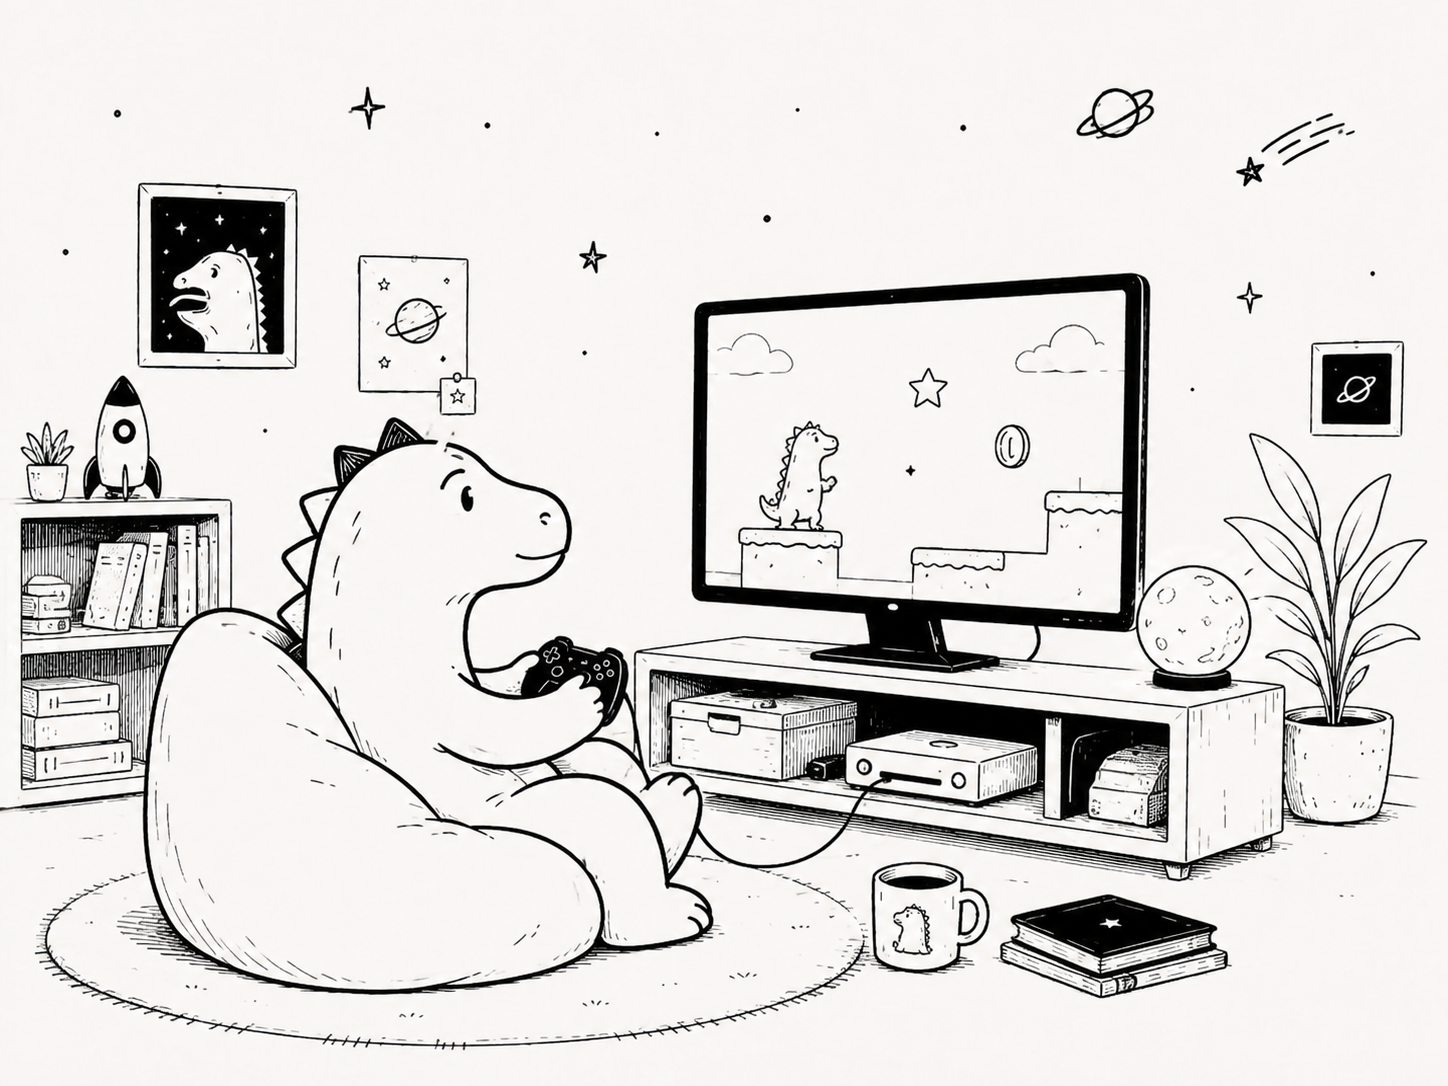
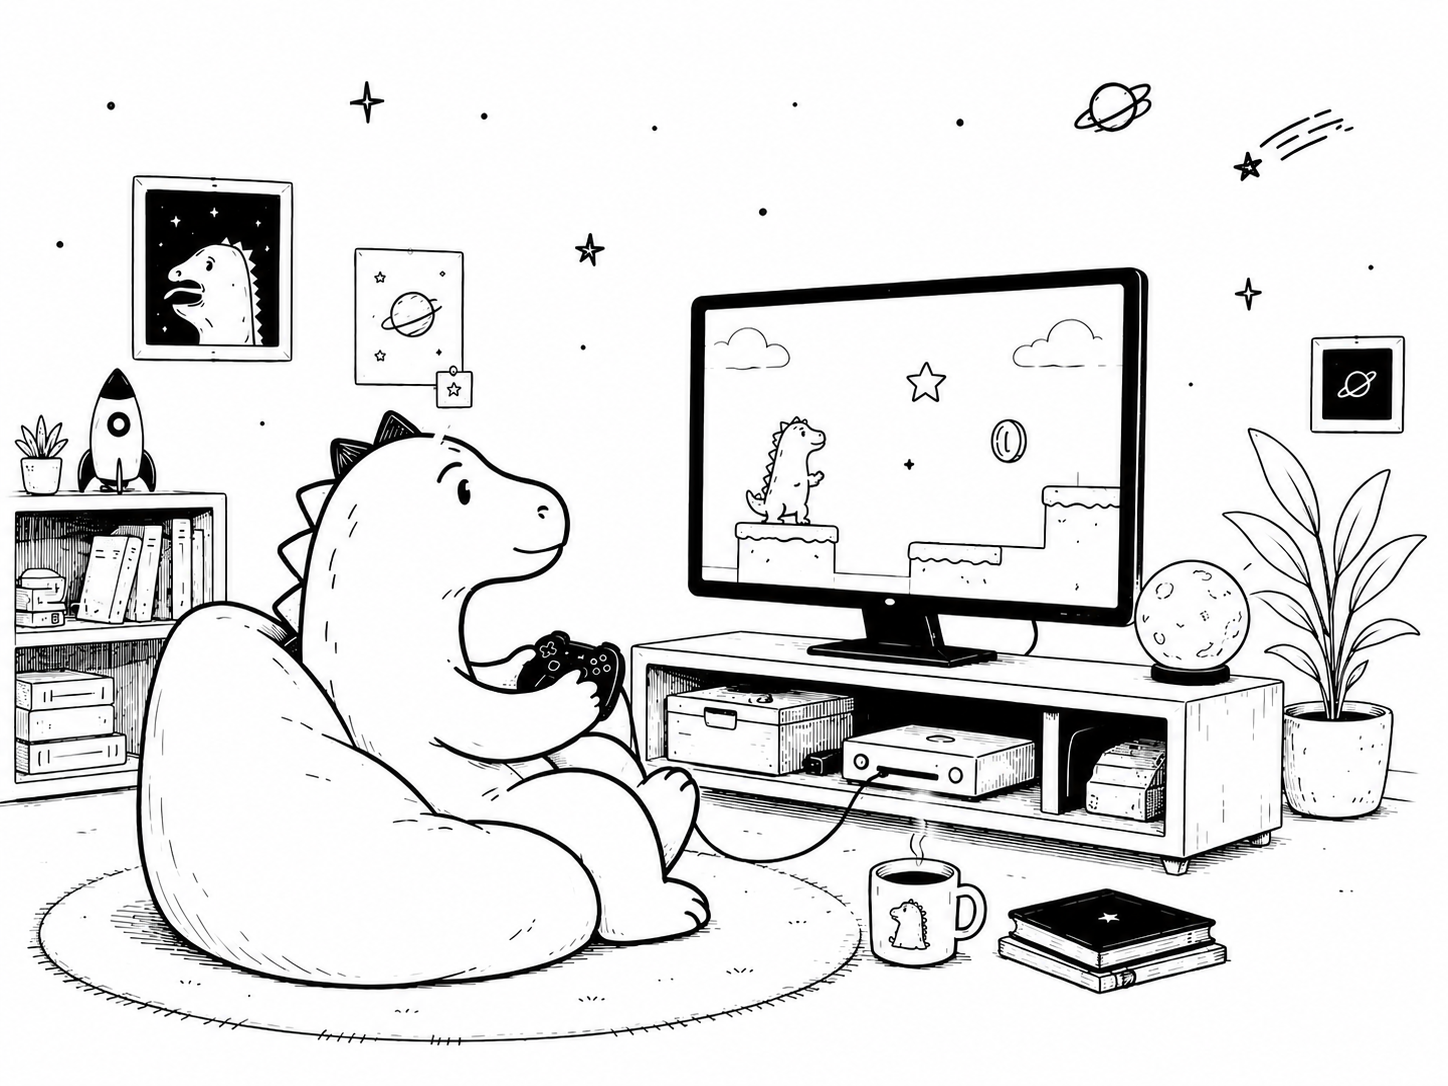
Talf foto change

diff --git a/index.html b/index.html
@@ -119,7 +119,7 @@
                 <div class="coming-soon-card">
 
                     <div class="coming-soon-image">
-                        <img src="assets/images/games/talf-coming-soon.jpg"
+                        <img src="assets/images/games/talf-coming-soon.png"
                              alt="Upcoming Talf Games project">
                     </div>
 
@@ -142,7 +142,6 @@
                             Follow our journey
                             <span>→</span>
                         </a>
-
                     </div>
 
                 </div>
